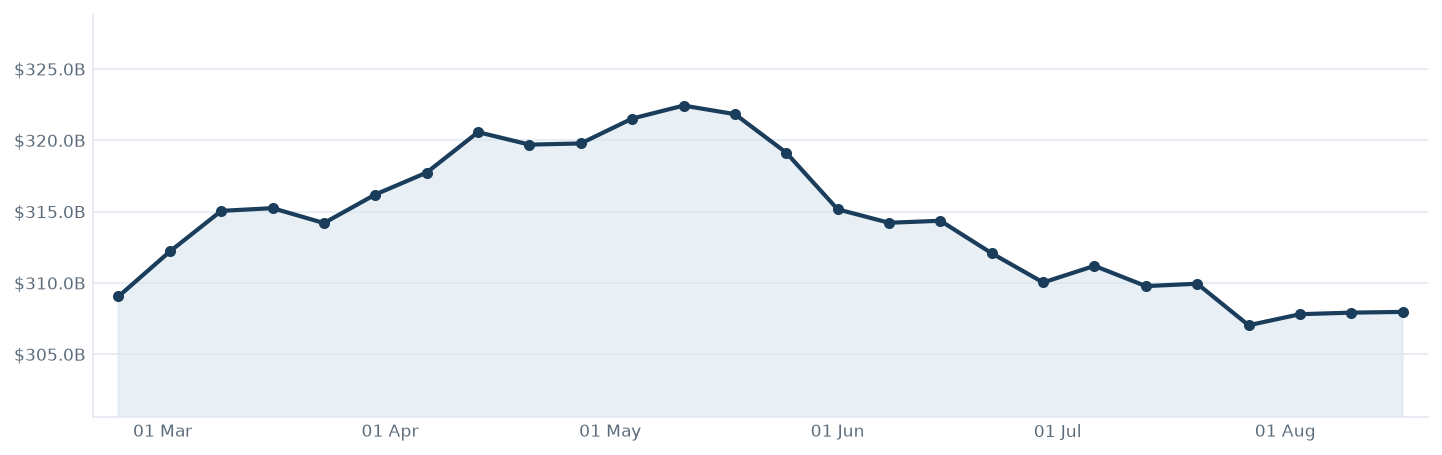
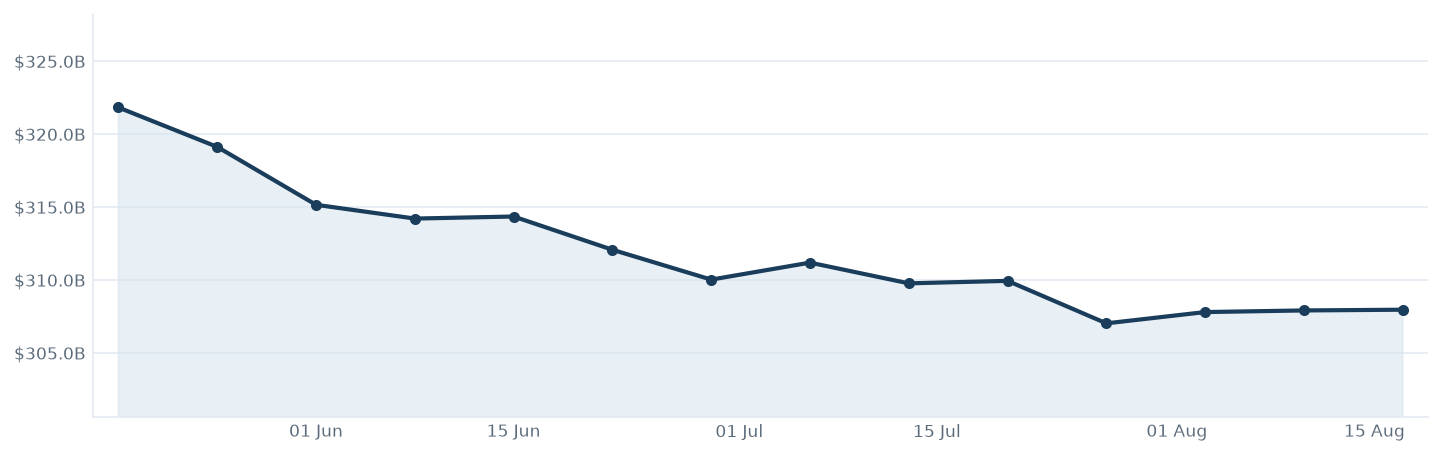
Limit the stablecoin and ETP newsletter charts to the last three months.
Both weekly lines now use a 92-day window so the email charts match in range instead of showing six months of history.

diff --git a/newsletter_weekly_charts.py b/newsletter_weekly_charts.py
@@ -30,8 +30,7 @@ USER_AGENT = (
 
 TMMF_SERIES = "tmmf"
 STABLE_SERIES = "stablecoins"
-MAX_STABLE_WEEKS = 26
-MAX_ETP_WEEKS = 26
+CHART_LOOKBACK_DAYS = 92  # last ~3 months of weekly points
 
 NEWSLETTER_CHART_FILES: dict[str, Path] = {
     "tmmf-weekly": CHART_DIR / "tmmf-weekly.png",
@@ -80,6 +79,14 @@ def parse_usd_compact(raw: object) -> float | None:
 
 def _monday_of(day: date) -> date:
     return day - timedelta(days=day.weekday())
+
+
+def _mondays_in_lookback(by_monday: dict[date, float], week_end: date) -> list[date]:
+    if not by_monday:
+        return []
+    end = min(week_end, max(by_monday))
+    start = end - timedelta(days=CHART_LOOKBACK_DAYS)
+    return [d for d in sorted(by_monday) if start <= d <= end]
 
 
 def _kpi_from_explore(section_id: str, label_match: str) -> dict[str, Any]:
@@ -163,7 +170,7 @@ def _defillama_stable_points(week_end: date) -> list[dict[str, Any]]:
         if total <= 0:
             continue
         by_monday[_monday_of(day)] = total
-    mondays = sorted(by_monday)[-MAX_STABLE_WEEKS:]
+    mondays = _mondays_in_lookback(by_monday, week_end)
     return [
         {"week_end": d.isoformat(), "value": by_monday[d], "source": "defillama"}
         for d in mondays
@@ -318,7 +325,7 @@ def _etp_weekly_series(week_end: date) -> dict[str, Any]:
         if day > week_end or aum_b <= 0:
             continue
         by_monday[_monday_of(day)] = aum_b * 1e9
-    mondays = sorted(by_monday)[-MAX_ETP_WEEKS:]
+    mondays = _mondays_in_lookback(by_monday, week_end)
     return {
         "title": "U.S. crypto ETP aggregate AUM",
         "unit": "usd",
